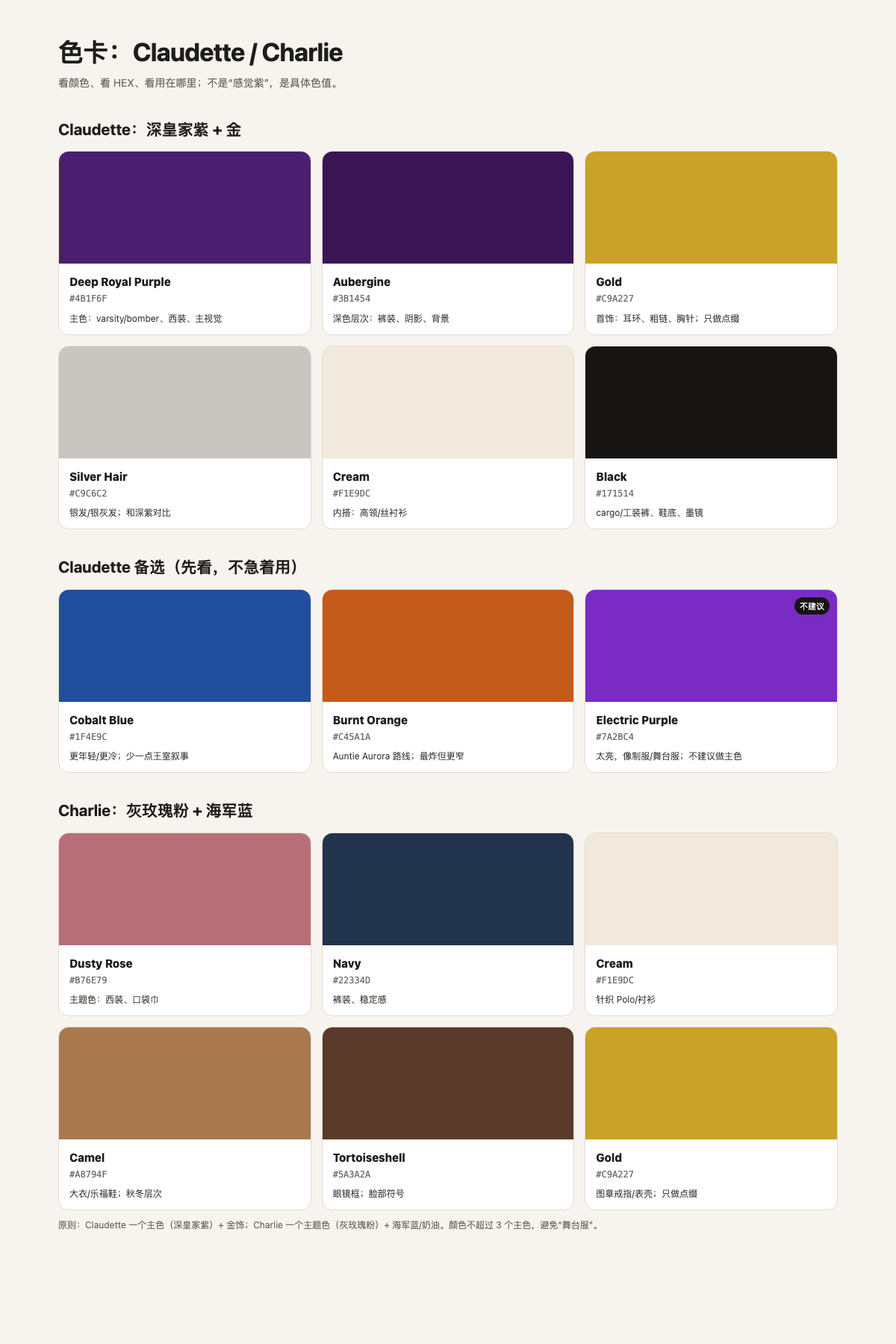
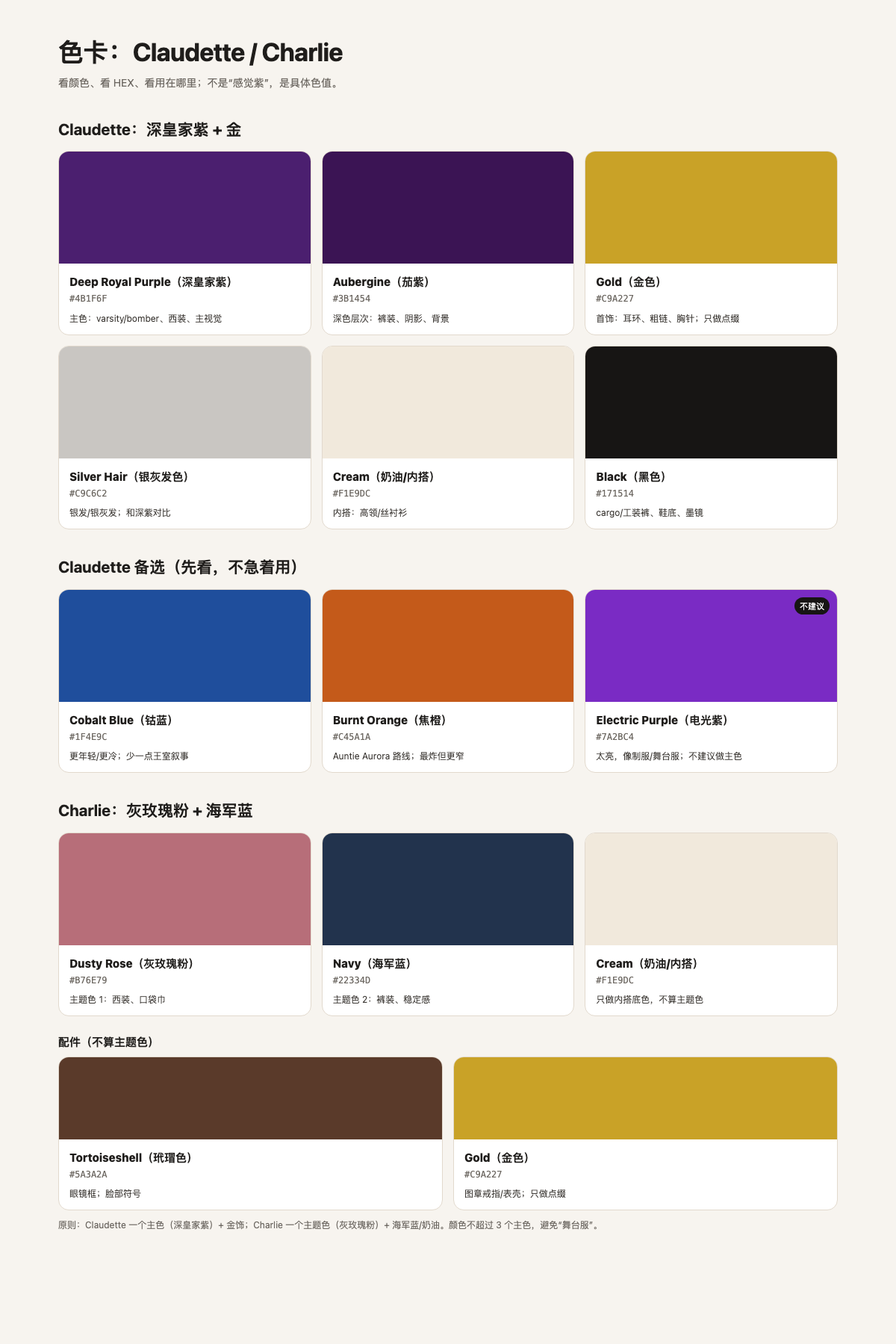
Simplify Charlie palette, add translations and full-pink benchmark

diff --git a/granny/index.html b/granny/index.html
@@ -66,16 +66,16 @@ tr:last-child td{border-bottom:0}
 <header>
   <div class="eyebrow">海外虚拟 IP / 双 IP 方案</div>
   <h1>先对标粉奶奶，再做两个长辈 IP</h1>
-  <p class="sub">一个黑人奶奶 + 一个白人 gay 大叔；TikTok / IG 主；先各做 10 条测试。</p>
+  <p class="sub">一个黑人奶奶 + 一个白人 gay（男同性恋）大叔；TikTok / IG 主；先各做 10 条测试。英文后括号里是中文，品牌名/人名不重复翻译。</p>
 </header>
 
 <section class="benchmark">
   <img src="screens/granny-pink-sofa.jpg" alt="Granny Spills 粉色奶奶">
   <div>
-    <div class="label">对标 / 不是我们的 IP</div>
+    <div class="label">对标</div>
     <h2>Granny Spills</h2>
     <p><b>TikTok 120 万粉 / 1600 万赞；IG 200 万粉 / 329 帖。</b>近一周 13 条，约每天 2 条；最高 7250 万播放。</p>
-    <p>她证明：<b>毒舌长辈 + 近景大字幕 + 日常场景 + 高頻</b>，TikTok 吃这一套。我们抄她的骨架，不抄她的脸、名字、原片。</p>
+    <p>她证明：<b>毒舌长辈 + 全粉色 + 日常场景 + 高頻</b>，TikTok 吃这一套。我们抄她的骨架，不抄她的脸、名字、原片。</p>
   </div>
 </section>
 
@@ -87,7 +87,7 @@ tr:last-child td{border-bottom:0}
       <div class="body">
         <h2>Claudette Banks</h2>
         <div class="meta">68 岁 · 黑人奶奶 · 退休校长 · 亚特兰大</div>
-        <p class="quote">“Child, please.”<br>大银灰 Afro + 金框猫眼 + 深紫 oversized varsity/bomber + 黑色 wide-leg cargo + 白 chunky sneakers；温柔、稳、时髦。</p>
+        <p class="quote">“Child, please.（得了吧，别闹了）”<br>大银灰 Afro（爆炸头）+ 金框猫眼 + 深紫 oversized varsity（棒球夹克）/bomber（飞行夹克）+ 黑色 wide-leg cargo（阔腿工装裤）+ 白 chunky sneakers（厚底球鞋）；温柔、稳、时髦。</p>
         <div class="tagline">视觉方向卡，脸模待定</div>
       </div>
     </article>
@@ -96,32 +96,31 @@ tr:last-child td{border-bottom:0}
       <div class="body">
         <h2>Charlie Whitmore</h2>
         <div class="meta">58 岁 · 白人 gay 大叔 · 退休时尚编辑 · 纽约</div>
-        <p class="quote">“Hello, darling.”<br>脏粉西装 + 脏粉口袋巾 + 玳瑁眼镜；Queer Eye 式 makeover uncle，不 camp。</p>
+        <p class="quote">“Hello, darling.（你好呀，亲爱的）”<br>灰玫瑰粉西装 + 灰玫瑰粉口袋巾 + 玳瑁眼镜；Queer Eye（粉雄救兵）式 makeover（改造）uncle（大叔），不 camp（夸张表演型）。</p>
         <div class="tagline">视觉方向卡，脸模待定</div>
       </div>
     </article>
   </div>
-  <p class="note">两个都抄 Granny 的“骨架”：9:16、近景、大字幕、一句金句、毒舌长辈、日常场景；但人种、性别、身份、语言、场景、受众全部换成我们自己的。</p>
 </section>
 
 <section>
   <h2>定位：一句话、造型、gay 感</h2>
   <div class="grid3">
     <div class="card"><h3>Claudette 一句话</h3><p>68 岁，亚特兰大退休校长，<b>最会穿的酷奶奶</b>。把“体面”穿成“时髦”，用温柔的语气说最狠的真话。</p></div>
-    <div class="card"><h3>Charlie 一句话</h3><p>58 岁，纽约退休时尚编辑，<b>gay uncle / 生活改造家</b>。用审美和毒舌帮你把生活变好，但不 camp。</p></div>
-    <div class="card"><h3>为什么年轻人看</h3><p>“<b>我现在就想成为她</b>” / “她替我体面地怼人” / “我想要一个 gay uncle 帮我挑衣服、装修、约会”。</p></div>
+    <div class="card"><h3>Charlie 一句话</h3><p>58 岁，纽约退休时尚编辑，<b>gay（男同性恋）uncle（大叔）/ 生活改造家</b>。用审美和毒舌帮你把生活变好，但不 camp（夸张表演型）。</p></div>
+    <div class="card"><h3>为什么年轻人看</h3><p><b>富有、自在、幸福。</b>不是炫富，是“我也可以这样活”的想象：Claudette 是从容的富有，Charlie 是有品味、有时间、有爱的自在。</p></div>
   </div>
 
   <div class="table-wrap" style="margin-top:12px">
     <table>
       <thead><tr><th>造型公式</th><th>Claudette</th><th>Charlie</th></tr></thead>
       <tbody>
-        <tr><td>主色</td><td><b>深皇家紫 + 金色</b></td><td><b>脏粉/玫瑰粉 + 海军蓝 + 奶油</b></td></tr>
-        <tr><td>头发</td><td><b>大银灰 Afro</b>（不是小 TWA）</td><td>银灰短发 + side part</td></tr>
+        <tr><td>主色</td><td><b>深皇家紫 + 金色</b></td><td><b>灰玫瑰粉 + 海军蓝</b></td></tr>
+        <tr><td>头发</td><td><b>大银灰 Afro（爆炸头）</b>（不是小 TWA（短卷发））</td><td>银灰短发 + side part（侧分）</td></tr>
         <tr><td>脸部符号</td><td><b>金色/玳瑁大框猫眼</b></td><td><b>玳瑁细框眼镜 + 盐胡椒胡</b></td></tr>
-        <tr><td>服装</td><td><b>oversized 深紫西装 + 奶油高领</b></td><td><b>脏粉西装 + 奶油针织 Polo + 海军蓝裤</b></td></tr>
+        <tr><td>服装</td><td><b>深紫 oversized varsity（棒球夹克）/bomber（飞行夹克）+ 黑色 wide-leg cargo（阔腿工装裤）</b></td><td><b>灰玫瑰粉西装 + 白色 T 恤 + 海军蓝裤</b>（白只做内搭）</td></tr>
         <tr><td>鞋</td><td><b>白色厚底 sneakers</b>（年轻化开关）</td><td>棕色麂皮乐福鞋</td></tr>
-        <tr><td>首饰/道具</td><td>大金圈耳环 + 粗金链/金胸针</td><td><b>脏粉口袋巾 + 金图章戒指 + 好表</b></td></tr>
+        <tr><td>首饰/道具</td><td>大金圈耳环 + 粗金链/金胸针</td><td><b>灰玫瑰粉口袋巾 + 金图章戒指 + 好表</b></td></tr>
         <tr><td>一句话</td><td>教堂的体面 + 街头的鞋</td><td>他穿得比你好，但不会让你难堪</td></tr>
       </tbody>
     </table>
@@ -129,8 +128,8 @@ tr:last-child td{border-bottom:0}
 
   <div class="quote-box">
     <p><b>黑人奶奶颜色：深皇家紫 + 金。</b>没有“黑人最喜欢颜色”的权威统计；1988 年一项 582 名大学生的小样本研究里，黑人被试比白人更常选红、紫、黑。紫色在 Black culture 里有 royalty/教会/HBCU/红毯的语义；电光紫像制服，深茄紫才显贵。</p>
-    <p><b>年轻化：</b>“教堂的体面 + 街头的比例”。深紫 oversized varsity/bomber + 黑色 wide-leg cargo + 白 chunky sneakers + 大 Afro + 大框眼镜 + 大金饰；不是穿少女装。<b>西装+白鞋只是“不显老”，不是“年轻潮流”。</b></p>
-    <p><b>Charlie 的 gay 感：</b>《粉雄救兵》（Queer Eye）Fab Five 是原型；Charlie = Tan（造型）+ Bobby（家居）+ Antoni（美食），不学 Jonathan 的 camp。视觉开关：脏粉口袋巾 + 金图章戒指 + 好表；静态图只给 30%，剩下 70% 在声音、手势、内容。</p>
+    <p><b>年轻化：</b>“教堂的体面 + 街头的比例”。深紫 oversized（廓形）varsity（棒球夹克）/bomber（飞行夹克）+ 黑色 wide-leg（阔腿）cargo（工装裤）+ 白 chunky（厚底）sneakers（球鞋）+ 大 Afro（爆炸头）+ 大框眼镜 + 大金饰；不是穿少女装。<b>西装+白鞋只是“不显老”，不是“年轻潮流”。</b></p>
+    <p><b>Charlie 的 gay 感：</b>《粉雄救兵》（Queer Eye）Fab Five（五人组）是原型；Charlie = Tan（造型）+ Bobby（家居）+ Antoni（美食），不学 Jonathan 的 camp（夸张表演型）。视觉开关：灰玫瑰粉口袋巾 + 金图章戒指 + 好表；静态图只给 30%，剩下 70% 在声音、手势、内容。</p>
   </div>
 
   <div style="margin-top:14px">
@@ -147,13 +146,13 @@ tr:last-child td{border-bottom:0}
       <tbody>
         <tr><td>身份</td><td>黑人奶奶 / 退休校长</td><td>白人 gay 大叔 / 退休时尚编辑</td></tr>
         <tr><td>年龄</td><td>68</td><td>58</td></tr>
-        <tr><td>颜色</td><td><b>深皇家紫 + 金色</b></td><td><b>脏粉/玫瑰粉、海军蓝、驼色</b></td></tr>
-        <tr><td>语气</td><td>温柔、稳、playful</td><td>俏、温暖、毒舌</td></tr>
-        <tr><td>一句话</td><td>“Child, please.”</td><td>“Hello, darling.”</td></tr>
+        <tr><td>颜色</td><td><b>深皇家紫 + 金色</b></td><td><b>灰玫瑰粉 + 海军蓝</b></td></tr>
+        <tr><td>语气</td><td>温柔、稳、playful（俏皮）</td><td>俏、温暖、毒舌</td></tr>
+        <tr><td>一句话</td><td>“Child, please.（得了吧）”</td><td>“Hello, darling.（你好呀，亲爱的）”</td></tr>
         <tr><td>内容</td><td>家庭/教育/穿搭/美食</td><td>情感/时尚/家居/待客</td></tr>
-        <tr><td>受众</td><td><b>Black 年轻群体 + 所有年轻群体</b></td><td><b>女性/LGBTQ+ + 所有 makeover 年轻用户</b></td></tr>
+        <tr><td>受众</td><td><b>Black（黑人）年轻群体 + 所有年轻群体</b></td><td><b>女性/LGBTQ+（性少数群体）+ 所有 makeover（改造）年轻用户</b></td></tr>
         <tr><td>品牌</td><td>美妆/食品/服饰/家居</td><td>家居/时尚/美妆/旅行/酒</td></tr>
-        <tr><td>造型</td><td>大银灰 Afro + 金框猫眼 + 深紫 oversized varsity/bomber + 黑色 wide-leg cargo + 白 chunky sneakers</td><td>银灰短发 + 玳瑁眼镜 + 脏粉西装 + 脏粉口袋巾 + 乐福鞋</td></tr>
+        <tr><td>造型</td><td>大银灰 Afro + 金框猫眼 + 深紫 oversized varsity（棒球夹克）/bomber（飞行夹克）+ 黑色 wide-leg cargo（阔腿工装裤）+ 白 chunky sneakers（厚底球鞋）</td><td>银灰短发 + 玳瑁眼镜 + 灰玫瑰粉西装 + 灰玫瑰粉口袋巾 + 乐福鞋</td></tr>
         <tr><td>平台</td><td>Facebook Reels 强</td><td>Pinterest 强</td></tr>
       </tbody>
     </table>
@@ -167,17 +166,17 @@ tr:last-child td{border-bottom:0}
       <thead><tr><th>项</th><th>内容</th></tr></thead>
       <tbody>
         <tr><td>名字/年龄</td><td><b>Claudette Banks</b> / 68 岁（1958 年生）</td></tr>
-        <tr><td>外形</td><td>黑人女性；<b>大银灰 Afro</b>、<b>金色/玳瑁大框猫眼</b>、<b>深皇家紫</b>、大金圈耳环/粗金链、莓色唇；<b>深紫 oversized varsity/bomber + 黑色 wide-leg cargo + 白色 chunky sneakers</b></td></tr>
+        <tr><td>外形</td><td>黑人女性；<b>大银灰 Afro</b>、<b>金色/玳瑁大框猫眼</b>、<b>深皇家紫</b>、大金圈耳环/粗金链、莓色唇；<b>深紫 oversized varsity（棒球夹克）/bomber（飞行夹克）+ 黑色 wide-leg cargo（阔腿工装裤）+ 白色 chunky sneakers（厚底球鞋）</b></td></tr>
         <tr><td>身份</td><td>退休高中校长；从教 30 年；社区长辈；丧偶 12 年；三个孩子、五个孙辈</td></tr>
         <tr><td>背景</td><td>住亚特兰大；前廊、花园、家庭照片墙；周末做一桌饭</td></tr>
-        <tr><td>性格</td><td><b>温柔是她最大的特色</b>；稳、有耐心、护短、幽默、<b>时髦、playful、unbothered</b>；不吼，一句“Child, please”就够</td></tr>
-        <tr><td>说话</td><td>中低音、慢、清楚；短句；“Child, please.” / “Baby, listen.” / “Mm-hmm.”</td></tr>
+        <tr><td>性格</td><td><b>温柔是她最大的特色</b>；稳、有耐心、护短、幽默、<b>时髦、playful（俏皮）、unbothered（从容不被影响）</b>；不吼，一句“Child, please（得了吧）”就够</td></tr>
+        <tr><td>说话</td><td>中低音、慢、清楚；短句；“Child, please.（得了吧）” / “Baby, listen.（宝贝，听我说）” / “Mm-hmm.（嗯哼）”</td></tr>
         <tr><td>内容</td><td>家庭/代际 30%；教育/人生/职场 25%；穿搭/美妆/头发 20%；美食/待客 15%；毒舌/POV 10%</td></tr>
-        <tr><td>内容格式</td><td><b>Nana Rates</b>（点评穿搭/约会/公寓）；<b>Nana’s Rules</b>；<b>Get Ready with Nana</b>；<b>Nana vs Gen Z</b></td></tr>
+        <tr><td>内容格式</td><td><b>Nana Rates（奶奶点评）</b>：穿搭/约会/公寓；<b>Nana’s Rules（奶奶的规矩）</b>；<b>Get Ready with Nana（跟奶奶一起准备）</b>；<b>Nana vs Gen Z（奶奶对战 Z 世代）</b></td></tr>
         <tr><td>受众/品牌</td><td><b>Black 年轻群体 + 所有年轻群体</b> + 25-45 女性/家庭；美妆（纹理头发/深肤色）、食品、服饰、家居</td></tr>
         <tr><td>平台</td><td>TikTok + IG 主；Facebook Reels 强；Pinterest 可选</td></tr>
         <tr><td>禁忌</td><td>不碰政治/成人/医疗/金融；不真人名人</td></tr>
-        <tr><td>系列</td><td>Ms. Claudette Says / Nana’s Rules / <b>Nana Rates</b> / Sunday Table / Ask Ms. Claudette</td></tr>
+        <tr><td>系列</td><td>Ms. Claudette Says（Claudette 说）/ Nana’s Rules（奶奶的规矩）/ <b>Nana Rates（奶奶点评）</b> / Sunday Table（周日餐桌）/ Ask Ms. Claudette（问 Claudette）</td></tr>
       </tbody>
     </table>
   </div>
@@ -190,17 +189,17 @@ tr:last-child td{border-bottom:0}
       <thead><tr><th>项</th><th>内容</th></tr></thead>
       <tbody>
         <tr><td>名字/年龄</td><td><b>Charles “Charlie” Whitmore</b> / 58 岁</td></tr>
-        <tr><td>外形</td><td>白人男性；银灰短发、<b>玳瑁细框眼镜</b>、剪裁西装/开衫、<b>脏粉口袋巾</b>、金图章戒指；<b>脏粉/玫瑰粉</b>、海军蓝、驼色、奶油</td></tr>
+        <tr><td>外形</td><td>白人男性；银灰短发、<b>玳瑁细框眼镜</b>、剪裁西装/开衫、<b>灰玫瑰粉口袋巾</b>、金图章戒指；<b>灰玫瑰粉 + 海军蓝</b>（奶油只做内搭）</td></tr>
         <tr><td>身份</td><td>退休时尚编辑 / 室内设计师 / <b>生活改造家</b>；已婚 18 年，丈夫 David 是建筑师；两只狗</td></tr>
         <tr><td>背景</td><td>住纽约；公寓有艺术、书、酒吧车、狗；周末办晚餐</td></tr>
-        <tr><td>性格</td><td>俏、毒舌、时髦、温暖、护短；<b>先损你，再真的帮你</b>；<b>Queer Eye 式 makeover uncle</b>，不 camp</td></tr>
-        <tr><td>说话</td><td>轻、快、清晰；“Hello, darling.” / “Absolutely not.” / “We don’t do that.”</td></tr>
+        <tr><td>性格</td><td>俏、毒舌、时髦、温暖、护短；<b>先损你，再真的帮你</b>；<b>Queer Eye（粉雄救兵）式 makeover（改造）uncle（大叔）</b>，不 camp（夸张表演型）</td></tr>
+        <tr><td>说话</td><td>轻、快、清晰；“Hello, darling.（你好呀，亲爱的）” / “Absolutely not.（绝对不行）” / “We don’t do that.（我们不这样）”</td></tr>
         <tr><td>内容</td><td>情感/约会/红旗 30%；穿搭/家居 25%；待客/美食/酒 20%；文化/观点 15%；老公/狗/日常 10%</td></tr>
-        <tr><td>内容格式</td><td><b>Uncle Charlie Fixes</b>（改造穿搭/公寓/约会/晚餐）；<b>Absolutely Not</b>；<b>How to Host</b>；<b>Ask Uncle Charlie</b></td></tr>
-        <tr><td>受众/品牌</td><td>女性/LGBTQ+ 25-45 + Gen Z；<b>所有喜欢 makeover 的年轻用户</b>；家居、时尚、美妆、旅行、酒、宠物</td></tr>
+        <tr><td>内容格式</td><td><b>Uncle Charlie Fixes（Charlie 大叔来改造）</b>：穿搭/公寓/约会/晚餐；<b>Absolutely Not（绝对不行）</b>；<b>How to Host（怎么请客）</b>；<b>Ask Uncle Charlie（问 Charlie 大叔）</b></td></tr>
+        <tr><td>受众/品牌</td><td>女性/LGBTQ+（性少数群体）25-45 + Gen Z（Z 世代）；<b>所有喜欢 makeover（改造）的年轻用户</b>；家居、时尚、美妆、旅行、酒、宠物</td></tr>
         <tr><td>平台</td><td>TikTok + IG 主；Pinterest 强；YouTube Shorts 复用；X 可选</td></tr>
         <tr><td>禁忌</td><td>不碰政治/成人；不真人名人</td></tr>
-        <tr><td>系列</td><td><b>Uncle Charlie Fixes</b> / Uncle Charlie Says / Absolutely Not / How to Host / Ask Uncle Charlie</td></tr>
+        <tr><td>系列</td><td><b>Uncle Charlie Fixes（Charlie 大叔来改造）</b> / Uncle Charlie Says（Charlie 大叔说）/ Absolutely Not（绝对不行）/ How to Host（怎么请客）/ Ask Uncle Charlie（问 Charlie 大叔）</td></tr>
       </tbody>
     </table>
   </div>
@@ -223,7 +222,7 @@ tr:last-child td{border-bottom:0}
     </div>
   </div>
   <div class="quote-box">
-    <p><b>联动栏目（可选）：Two Elders, One Question</b></p>
+    <p><b>联动栏目（可选）：Two Elders, One Question（两位长辈，同一个问题）</b></p>
     <p>同一个问题，两个人各答一条；各自账号发，互相 duet/stitch。</p>
     <p>5 个问题：他没回消息怎么办？能不能原谅出轨？第一次见家长穿什么？怎么请客不翻车？什么时候该离开？</p>
     <p>配比：各自 70% 单人，30% 联动；不做“一家人”，两个 IP 独立。</p>
@@ -274,7 +273,7 @@ tr:last-child td{border-bottom:0}
       <div class="body">
         <h3>Günther Krabbenhöft</h3>
         <div class="meta">Instagram @g.krabbenhoft · 314.7K · 真人 gay 时尚偶像</div>
-        <p><b>核心风格参考。</b>帽子 + 圆框眼镜 + 领结/马甲 + 色彩 + 戒指；gay 感来自审美和姿态，不是长相或 camp。</p>
+        <p><b>核心风格参考。</b>帽子 + 圆框眼镜 + 领结/马甲 + 色彩 + 戒指；gay 感来自审美和姿态，不是长相或 camp（夸张表演型）。</p>
       </div>
     </article>
   </div>
@@ -298,7 +297,7 @@ tr:last-child td{border-bottom:0}
     <table>
       <thead><tr><th>账号</th><th>平台</th><th>类型</th><th>粉丝</th><th>学什么</th></tr></thead>
       <tbody>
-        <tr><td><b>《粉雄救兵》Fab Five</b></td><td>Netflix</td><td>真人 gay 五人组</td><td>—</td><td><b>Charlie 的人物原型</b>：Tan 造型 + Bobby 家居 + Antoni 美食；不学 Jonathan 的 camp</td></tr>
+        <tr><td><b>《粉雄救兵》Fab Five（五人组）</b></td><td>Netflix</td><td>真人 gay 五人组</td><td>—</td><td><b>Charlie 的人物原型</b>：Tan 造型 + Bobby 家居 + Antoni 美食；不学 Jonathan 的 camp（夸张表演型）</td></tr>
         <tr><td><b>The Old Gays</b></td><td>TikTok @oldgays / IG @theoldgays</td><td>真人老年 gay 四人组</td><td>TikTok 10.8M</td><td>同类：老年 gay 的语气、幽默、群体互动</td></tr>
         <tr><td><b>Nate Berkus</b></td><td>IG @nateberkus</td><td>真人 gay 室内设计师，50+</td><td>头部家居账号</td><td>同类：家居/温暖/品味</td></tr>
         <tr><td><b>Carson Kressley</b></td><td>IG @carsonkressley</td><td>真人 gay 电视人，50+</td><td>—</td><td>同类：毒舌/幽默/风格，不是直接对标</td></tr>
@@ -311,8 +310,8 @@ tr:last-child td{border-bottom:0}
   <div class="quote-box">
     <p><b>记忆点结论：Claudette 现在不是脸的问题，是“符号密度”不够。</b></p>
     <p>Mama Graves：大 Afro + 大眼镜 + 金项链 + 木椅；Auntie Aurora：银发 Bob + 玳瑁眼镜 + 三层金链 + 橙色西装。</p>
-    <p>我们只有“紫色”一个符号，还被西装稀释了。建议先加：<b>大框眼镜 + 更大的银灰 Afro + 一件大金饰 + 白 chunky sneakers + 深紫 varsity/bomber</b>，紫色压深成茄紫。</p>
-    <p>Charlie 的 gay 感也一样：不是长相，是审美细节。Günther 的帽子/领结/色彩可看，但 Charlie 收敛成 NYC 版：玳瑁眼镜 + 脏粉西装 + 金图章戒指 + <b>脏粉口袋巾</b>；《粉雄救兵》的 Tan/Bobby/Antoni 是人物原型。</p>
+    <p>我们只有“紫色”一个符号，还被西装稀释了。建议先加：<b>大框眼镜 + 更大的银灰 Afro + 一件大金饰 + 白 chunky（厚底）sneakers（球鞋）+ 深紫 varsity（棒球夹克）/bomber（飞行夹克）</b>，紫色压深成茄紫。</p>
+    <p>Charlie 的 gay 感也一样：不是长相，是审美细节。Günther 的帽子/领结/色彩可看，但 Charlie 收敛成 NYC（纽约）版：玳瑁眼镜 + 灰玫瑰粉西装 + 金图章戒指 + <b>灰玫瑰粉口袋巾</b>；《粉雄救兵》的 Tan/Bobby/Antoni 是人物原型。</p>
   </div>
 </section>
 
@@ -325,7 +324,7 @@ tr:last-child td{border-bottom:0}
     <table>
       <thead><tr><th>#</th><th>选题</th><th>这条讲什么</th></tr></thead>
       <tbody>
-<tr><td>1</td><td>Child, please：他不回消息，就是不想回</td><td>用校长语气拆穿“他太忙了”，教观众别替男人找借口。</td></tr>
+<tr><td>1</td><td>Child, please（得了吧）：他不回消息，就是不想回</td><td>用校长语气拆穿“他太忙了”，教观众别替男人找借口。</td></tr>
 <tr><td>2</td><td>我教了 30 年高中生，一眼看出谁在撒谎</td><td>讲三个撒谎的小动作，落到“看人别只听他说”。</td></tr>
 <tr><td>3</td><td>周日餐桌：我奶奶的玉米面包</td><td>做一道家族玉米面包，讲奶奶当年怎么用一口锅养活一家人。</td></tr>
 <tr><td>4</td><td>68 岁的自然头发 routine</td><td>洗、护、造型三步，告诉观众银发也可以很有型。</td></tr>
@@ -359,9 +358,9 @@ tr:last-child td{border-bottom:0}
 <tr><td>3</td><td>3 小时办一场晚餐</td><td>菜单、采购、摆桌；从超市到上桌的完整流程。</td></tr>
 <tr><td>4</td><td>50 岁后约会，我忽略过的红旗</td><td>三个约会红旗 + 自己的故事；不点名、不扫射。</td></tr>
 <tr><td>5</td><td>我和 David 的 18 年</td><td>稳定关系怎么吵架、怎么和好；丈夫 David 正常出现。</td></tr>
-<tr><td>6</td><td>脏粉色是我的中性色</td><td>大叔怎么穿粉：配色、材质、场合；不是装嫩。</td></tr>
+<tr><td>6</td><td>灰玫瑰粉色是我的中性色</td><td>大叔怎么穿粉：配色、材质、场合；不是装嫩。</td></tr>
 <tr><td>7</td><td>二手市场淘到的一角</td><td>淘一件旧物，改成一个家居角；预算低也能好看。</td></tr>
-<tr><td>8</td><td>Ask Uncle Charlie：他还关注前任</td><td>读一个问题，给判断：不是不能，是看他怎么处理。</td></tr>
+<tr><td>8</td><td>Ask Uncle Charlie（问 Charlie 大叔）：他还关注前任</td><td>读一个问题，给判断：不是不能，是看他怎么处理。</td></tr>
 <tr><td>9</td><td>每个家都该有的一样东西</td><td>讲灯光/镜子/酒吧车三选一；审美判断。</td></tr>
 <tr><td>10</td><td>狗、咖啡、什么都不做的艺术</td><td>周末慢生活；狗出镜，讲“休息也是本事”。</td></tr>
 <tr><td>11</td><td>怎么拒绝一个不喜欢的约会</td><td>三句礼貌但不留口子的台词；边界感。</td></tr>
@@ -370,7 +369,7 @@ tr:last-child td{border-bottom:0}
 <tr><td>14</td><td>50 岁以后，怎么穿得像个大人</td><td>剪裁、颜色、面料；不装嫩，也不放弃。</td></tr>
 <tr><td>15</td><td>如何判断一个人有没有品味</td><td>三个细节：鞋、表、说话方式；毒舌但讲理。</td></tr>
 <tr><td>16</td><td>我和丈夫的约会之夜</td><td>长期关系的仪式感；餐厅或在家，重点在“留时间”。</td></tr>
-<tr><td>17</td><td>一件驼色大衣的 5 种穿法</td><td>一个单品搭五套；适合秋冬、适合大叔。</td></tr>
+<tr><td>17</td><td>一件海军蓝大衣的 5 种穿法</td><td>一个单品搭五套；适合秋冬、适合大叔。</td></tr>
 <tr><td>18</td><td>朋友来家里，10 分钟能准备好的东西</td><td>快手待客：奶酪、橄榄、酒；不慌不忙。</td></tr>
 <tr><td>19</td><td>我不再买的 5 样东西</td><td>消费观/审美：不囤、不买大 logo、不买难打理的。</td></tr>
 <tr><td>20</td><td>给 30 岁的我一条建议</td><td>人生/感情建议；温柔收尾，不居高临下。</td></tr>

diff --git a/granny/queer-eye/index.html b/granny/queer-eye/index.html
@@ -37,7 +37,7 @@ table{width:100%;border-collapse:collapse;font-size:13px}th,td{padding:10px 12px
 <header>
   <div class="eyebrow">Queer Eye / 粉雄救兵 · 造型参考</div>
   <h1>五个人怎么穿、怎么说话</h1>
-  <p class="sub">不是让 Charlie 变成某个人；是把他们的造型、性格、内容拆开，拼成 Charlie。</p>
+  <p class="sub">不是让 Charlie 变成某个人；是把他们的造型、性格、内容拆开，拼成 Charlie。英文后括号里是中文；人名/品牌名不译。</p>
 </header>
 
 <h2>先看三张合照：正式 / 运动 / 街头</h2>
@@ -46,21 +46,21 @@ table{width:100%;border-collapse:collapse;font-size:13px}th,td{padding:10px 12px
   <img src="images/group-casual.jpg" alt="Queer Eye 合照 运动">
   <img src="images/group-street.jpg" alt="Queer Eye 合照 街头">
 </div>
-<p class="note">同一组人，三种场合三种穿法：正式（西装/丝质）、运动（背心/短裤/球鞋）、街头（varsity/牛仔/短裤）。Charlie 要学的是“会换场合”，不是一套衣服穿到底。</p>
+<p class="note">同一组人，三种场合三种穿法：正式（西装/丝质）、运动（背心/短裤/球鞋）、街头（varsity（棒球夹克）/牛仔/短裤）。Charlie 要学的是“会换场合”，不是一套衣服穿到底。</p>
 
 <h2>三种 gay 原型（先看这个）</h2>
 <div class="grid">
-  <div class="card"><img src="images/anderson-portrait.jpg" alt="Anderson Cooper"><div class="body"><h3>Anderson Cooper</h3><div class="meta">Silver fox / daddy</div><p>银发、新闻主播的体面、克制。学：银发+剪裁+低饱和；不学：太新闻腔。</p><div class="tag">Charlie 的“体面”底色</div></div></div>
+  <div class="card"><img src="images/anderson-portrait.jpg" alt="Anderson Cooper"><div class="body"><h3>Anderson Cooper</h3><div class="meta">Silver fox / daddy（银发狐狸系/成熟大叔）</div><p>银发、新闻主播的体面、克制。学：银发+剪裁+低饱和；不学：太新闻腔。</p><div class="tag">Charlie 的“体面”底色</div></div></div>
   <div class="card"><img src="images/clooney-portrait.jpg" alt="George Clooney"><div class="body"><h3>George Clooney</h3><div class="meta">Silver fox（直男，仅造型参考）</div><p>银发、西装、松弛。学：成熟男人的“不费力”；不学：直男安全牌。</p><div class="tag">只借造型，不借身份</div></div></div>
-  <div class="card"><img src="images/gunther.jpg" alt="Günther Krabbenhöft"><div class="body"><h3>Günther Krabbenhöft</h3><div class="meta">Creative dandy / 真人 gay</div><p>帽子、圆框眼镜、领结、色彩。学：用配饰表达“我是谁”；不学：全套 dandy 太舞台。</p><div class="tag">Charlie 的“审美胆量”</div></div></div>
-  <div class="card"><img src="images/tan-portrait.jpg" alt="Tan France"><div class="body"><h3>Tan France</h3><div class="meta">Creative dandy · 造型</div><p>剪裁清楚、颜色克制、说话直接。学：把复杂穿搭讲成 3 条规则。</p><div class="tag">Charlie 的“造型专业”</div></div></div>
-  <div class="card"><img src="images/bobby-portrait.jpg" alt="Bobby Berk"><div class="body"><h3>Bobby Berk</h3><div class="meta">Creative dandy · 家居</div><p>稳、实用、家庭感；不靠花哨。学：把“家”讲成人的生活，不是样板间。</p><div class="tag">Charlie 的“稳”</div></div></div>
-  <div class="card"><img src="images/antoni-portrait.jpg" alt="Antoni Porowski"><div class="body"><h3>Antoni Porowski</h3><div class="meta">Creative dandy · 美食</div><p>暖、俏、会调情、会自嘲。学：让观众觉得“他会在厨房陪我聊天”。</p><div class="tag">Charlie 的“暖/俏”</div></div></div>
-  <div class="card"><img src="images/jonathan-portrait.jpg" alt="Jonathan Van Ness"><div class="body"><h3>Jonathan Van Ness</h3><div class="meta">Camp / performance</div><p>长发、裙装、能量外放。学：自信和 body-positive；不学：camp 全套，Charlie 不是这一型。</p><div class="tag">边界参考，不是模板</div></div></div>
-  <div class="card"><img src="images/carson-portrait.jpg" alt="Carson Kressley"><div class="body"><h3>Carson Kressley</h3><div class="meta">Camp / performance</div><p>舞台感、毒舌、夸张。学：幽默节奏；不学：把毒舌变成表演。</p><div class="tag">边界参考，不是模板</div></div></div>
+  <div class="card"><img src="images/gunther.jpg" alt="Günther Krabbenhöft"><div class="body"><h3>Günther Krabbenhöft</h3><div class="meta">Creative dandy（创意精致型） / 真人 gay</div><p>帽子、圆框眼镜、领结、色彩。学：用配饰表达“我是谁”；不学：全套 dandy 太舞台。</p><div class="tag">Charlie 的“审美胆量”</div></div></div>
+  <div class="card"><img src="images/tan-portrait.jpg" alt="Tan France"><div class="body"><h3>Tan France</h3><div class="meta">Creative dandy（创意精致型） · 造型</div><p>剪裁清楚、颜色克制、说话直接。学：把复杂穿搭讲成 3 条规则。</p><div class="tag">Charlie 的“造型专业”</div></div></div>
+  <div class="card"><img src="images/bobby-portrait.jpg" alt="Bobby Berk"><div class="body"><h3>Bobby Berk</h3><div class="meta">Creative dandy（创意精致型） · 家居</div><p>稳、实用、家庭感；不靠花哨。学：把“家”讲成人的生活，不是样板间。</p><div class="tag">Charlie 的“稳”</div></div></div>
+  <div class="card"><img src="images/antoni-portrait.jpg" alt="Antoni Porowski"><div class="body"><h3>Antoni Porowski</h3><div class="meta">Creative dandy（创意精致型） · 美食</div><p>暖、俏、会调情、会自嘲。学：让观众觉得“他会在厨房陪我聊天”。</p><div class="tag">Charlie 的“暖/俏”</div></div></div>
+  <div class="card"><img src="images/jonathan-portrait.jpg" alt="Jonathan Van Ness"><div class="body"><h3>Jonathan Van Ness</h3><div class="meta">Camp / performance（夸张表演型）</div><p>长发、裙装、能量外放。学：自信和 body-positive（身体自爱）；不学：camp（夸张表演型）全套，Charlie 不是这一型。</p><div class="tag">边界参考，不是模板</div></div></div>
+  <div class="card"><img src="images/carson-portrait.jpg" alt="Carson Kressley"><div class="body"><h3>Carson Kressley</h3><div class="meta">Camp / performance（夸张表演型）</div><p>舞台感、毒舌、夸张。学：幽默节奏；不学：把毒舌变成表演。</p><div class="tag">边界参考，不是模板</div></div></div>
 </div>
 
-<h2>Fab Five 全员：每个人两张图</h2>
+<h2>Fab Five（五人组） 全员：每个人两张图</h2>
 
 <div class="person">
   <div class="imgs"><img src="images/tan-portrait.jpg" alt="Tan France 肖像"><img src="images/tan-group.jpg" alt="Tan France 合照"></div>
@@ -84,7 +84,7 @@ table{width:100%;border-collapse:collapse;font-size:13px}th,td{padding:10px 12px
 
 <div class="person">
   <div class="imgs"><img src="images/jonathan-portrait.jpg" alt="Jonathan Van Ness 肖像"><img src="images/jonathan-group.jpg" alt="Jonathan Van Ness 合照"></div>
-  <div class="info"><h3>Jonathan Van Ness</h3><div class="role">Grooming / 造型</div><p><b>身份：</b>美国白人，非二元/queer；发型师/电视人/作家。</p><p><b>性格：</b>高能量、外放、camp、body-positive、直接。</p><p><b>造型：</b>长发、裙装、亮色、露肤；强烈的表演性。</p><p><b>Charlie 学什么：</b>只学“自信”和“不道歉”；<b>不要学 camp 全套</b>。Charlie 是收敛版。</p></div>
+  <div class="info"><h3>Jonathan Van Ness</h3><div class="role">Grooming / 造型</div><p><b>身份：</b>美国白人，非二元/queer；发型师/电视人/作家。</p><p><b>性格：</b>高能量、外放、camp（夸张表演型）、body-positive（身体自爱）、直接。</p><p><b>造型：</b>长发、裙装、亮色、露肤；强烈的表演性。</p><p><b>Charlie 学什么：</b>只学“自信”和“不道歉”；<b>不要学 camp（夸张表演型）全套</b>。Charlie 是收敛版。</p></div>
 </div>
 
 <h2>Charlie 到底取谁</h2>
@@ -94,7 +94,7 @@ table{width:100%;border-collapse:collapse;font-size:13px}th,td{padding:10px 12px
 <tr><td><b>Tan France</b></td><td>造型专业、说话直接、把穿搭讲成规则</td><td>南亚裔身份；Charlie 是白人，不套用</td></tr>
 <tr><td><b>Bobby Berk</b></td><td>稳、实用、家居/家庭感</td><td>太“好男人”的无害感；Charlie 要有毒舌</td></tr>
 <tr><td><b>Antoni Porowski</b></td><td>暖、俏、美食/待客、会自嘲</td><td>太“hot guy”的性感路线；Charlie 是 58 岁</td></tr>
-<tr><td><b>Jonathan Van Ness</b></td><td>自信、body-positive、不道歉</td><td>camp/裙装/高能量；Charlie 不是这一型</td></tr>
+<tr><td><b>Jonathan Van Ness</b></td><td>自信、body-positive（身体自爱）、不道歉</td><td>camp（夸张表演型）/裙装/高能量；Charlie 不是这一型</td></tr>
 <tr><td><b>Karamo Brown</b></td><td>问对问题、情绪深度</td><td>外形/种族身份；Charlie 不套用</td></tr>
 </tbody></table></div>
 
@@ -102,9 +102,9 @@ table{width:100%;border-collapse:collapse;font-size:13px}th,td{padding:10px 12px
 <div class="quote">
 <p><b>Bobby 型：</b>稳、务实、家庭导向、从保守家庭走出来、靠手艺/生意立住；不戏剧化。</p>
 <p><b>Antoni 型：</b>暖、俏、情绪外露、爱做饭/待客、会自嘲；不装硬汉。</p>
-<p><b>Jonathan 型：</b>camp、外放、非二元、body-positive；强表演性。</p>
-<p><b>Charlie = Bobby 的稳 + Antoni 的暖/俏 + Tan 的造型直接。</b>不是 Jonathan 的 camp，也不是“普通直男帅大叔”。</p>
-<p><b>生活细节：</b>丈夫 David、两只狗、周末晚餐、艺术/旅行、chosen family、健身房、对服务员好。</p>
+<p><b>Jonathan 型：</b>camp（夸张表演型）、外放、非二元、body-positive（身体自爱）；强表演性。</p>
+<p><b>Charlie = Bobby 的稳 + Antoni 的暖/俏 + Tan 的造型直接。</b>不是 Jonathan 的 camp（夸张表演型），也不是“普通直男帅大叔”。</p>
+<p><b>生活细节：</b>丈夫 David、两只狗、周末晚餐、艺术/旅行、chosen family（自己选的家人）、健身房、对服务员好。</p>
 </div>
 
 <p class="note">图源：Netflix / Queer Eye 第五季宣传图（Deadline 发布）、Wikimedia Commons（Anderson Cooper、George Clooney、Carson Kressley、Bobby Berk、Antoni Porowski、Karamo Brown、Jonathan Van Ness、Tan France、Günther Krabbenhöft）。仅作内部造型参考，不用于对外发布；不用真人脸做 AI 角色。Antoni / Karamo 的公开单人图源较少，部分为合照裁切或小图放大，重点看造型，不看像素。</p>
